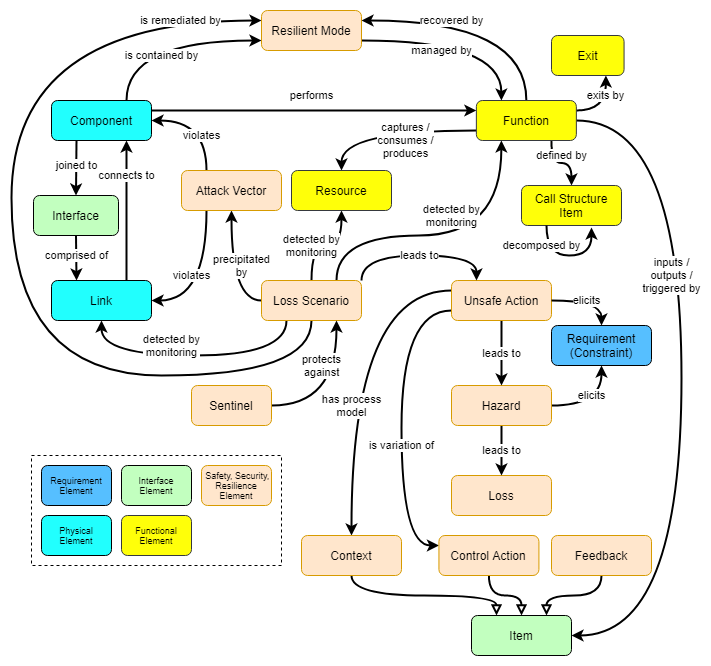
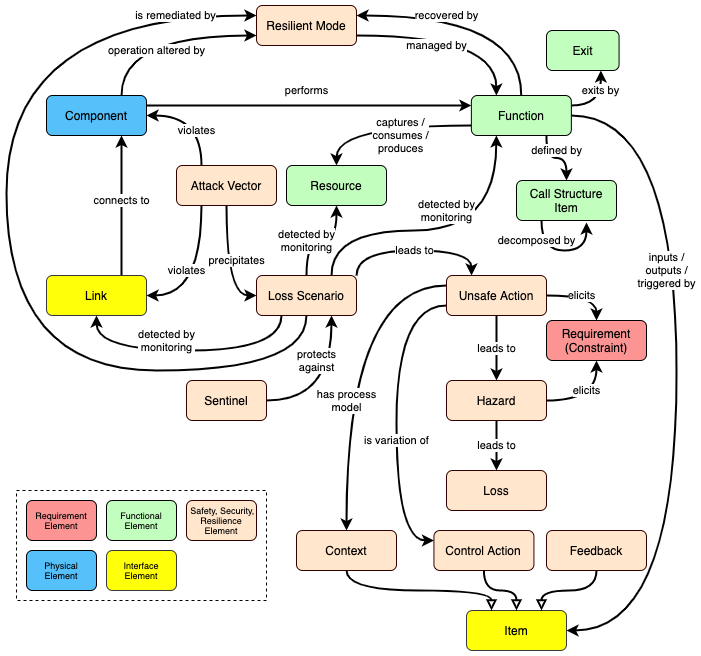
update to Vitech 2020 model

diff --git a/README.md b/README.md
@@ -2,6 +2,11 @@
 
 ## Mission Aware Inputs
 ![MA-Systemigraph](/images/ma-context.png)
+## MBSE Meta-Model
+A representation of critical systems engineering concepts and their interrelationships spanning _**requirements**_, _**behavior**_, _**architecture**_, and _**test**_.  This integrated model presents a high-level view of not only the ultimate specification of a system, but also the journey to that specification – _**concerns**_ opened and closed, _**risks**_ identified and managed.
+
+![MBSE](images/mbse.png)
+
 ### References
 * [MBSE](http://www.vitechcorp.com/resources/white_papers/onemodel.pdf)
 * [Hazard Analysis - STPA](http://psas.scripts.mit.edu/home/get_file.php?name=STPA_handbook.pdf)
